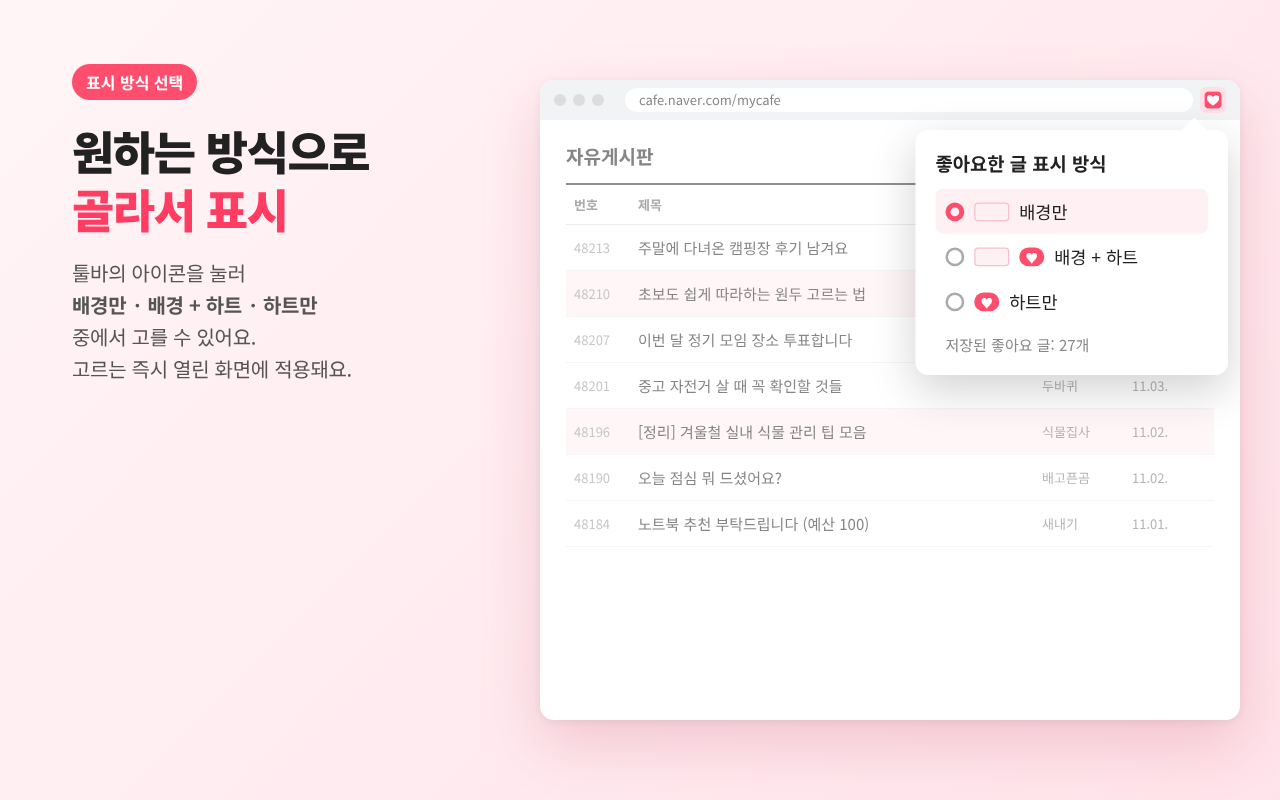
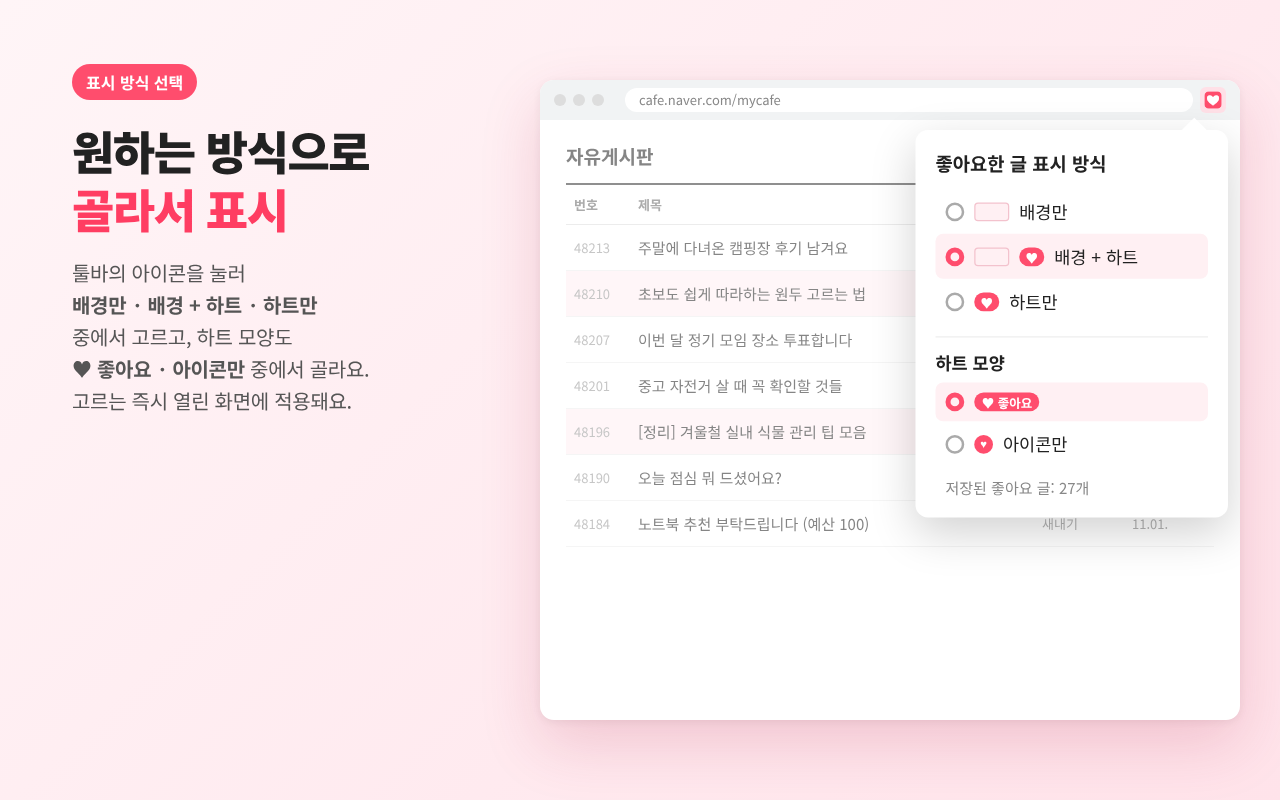
v1.5.0: 하트 모양 선택 기능 추가
- 팝업에서 하트 모양을 "♥ 좋아요" 배지 / 아이콘(♥)만 중에서 고를 수 있음
- 고르는 즉시 열린 카페 화면에 반영되고, 긴 제목 여백도 모양에 맞게 다시 계산
- 표시 방식이 "배경만"이면 하트 모양 선택을 흐리게 표시
- README와 스토어 스크린샷(팝업 화면) 갱신

Claude-Session: https://claude.ai/code/session_018ih16usEF2kqeph62Xi418

diff --git a/extension/content.js b/extension/content.js
@@ -8,10 +8,12 @@
   const STORAGE_KEY = "likedArticles"; // { key: { c: 카페번호, n: 카페이름, a: 글번호, t: 저장시각 } }
   const MAP_KEY = "cafeMap";           // { 카페번호: 카페이름 }  (서로 모를 때 채워 넣기용)
   const MODE_KEY = "displayMode";      // "bg" | "bg_heart" | "heart"
+  const STYLE_KEY = "heartStyle";      // "text"(♥ 좋아요) | "icon"(♥)
 
   let liked = {};
   let cafeMap = {};
   let mode = "bg";
+  let heartStyle = "text";
   let index = new Map(); // 글번호 → [기록...]  (빠른 조회용)
 
   // 카페 이름으로 오인하면 안 되는 주소 첫 부분
@@ -171,9 +173,10 @@
 
   function load() {
     return new Promise((done) => {
-      chrome.storage.local.get([STORAGE_KEY, MAP_KEY, MODE_KEY], (r) => {
+      chrome.storage.local.get([STORAGE_KEY, MAP_KEY, MODE_KEY, STYLE_KEY], (r) => {
         cafeMap = r[MAP_KEY] || {};
         mode = r[MODE_KEY] || "bg";
+        heartStyle = r[STYLE_KEY] || "text";
         const { out, changed } = migrate(r[STORAGE_KEY]);
         liked = out;
         if (changed) chrome.storage.local.set({ [STORAGE_KEY]: liked });
@@ -215,6 +218,11 @@
       ctxCache = null;
     }
     if (changes[MODE_KEY]) mode = changes[MODE_KEY].newValue || "bg";
+    if (changes[STYLE_KEY]) {
+      heartStyle = changes[STYLE_KEY].newValue || "text";
+      // 모양이 바뀌면 크기도 달라지므로 하트를 지우고 다시 그림 (여백도 다시 계산됨)
+      document.querySelectorAll(".ncl-heart-dot").forEach((d) => d.remove());
+    }
     markList();
   });
 
@@ -324,8 +332,8 @@
       // 이미 위치 지정(relative/absolute 등)이 된 요소는 그대로 두고, 아니면 기준점으로 만듦
       if (getComputedStyle(anchor).position === "static") anchor.classList.add("ncl-pos");
       const dot = document.createElement("span");
-      dot.className = "ncl-heart-dot";
-      dot.textContent = "\u2665 좋아요";
+      dot.className = heartStyle === "icon" ? "ncl-heart-dot ncl-icon" : "ncl-heart-dot";
+      dot.textContent = heartStyle === "icon" ? "\u2665" : "\u2665 좋아요";
       dot.setAttribute("aria-hidden", "true");
       anchor.appendChild(dot);
       dotTitles.set(anchor, title);

diff --git a/tools/store.html b/tools/store.html
@@ -93,7 +93,7 @@ td{position:relative}
   <div class="head">
     <div class="tag">표시 방식 선택</div>
     <h1>원하는 방식으로<br><em>골라서 표시</em></h1>
-    <p>툴바의 아이콘을 눌러<br><b>배경만 · 배경 + 하트 · 하트만</b><br>중에서 고를 수 있어요.<br>고르는 즉시 열린 화면에 적용돼요.</p>
+    <p>툴바의 아이콘을 눌러<br><b>배경만 · 배경 + 하트 · 하트만</b><br>중에서 고르고, 하트 모양도<br><b>♥ 좋아요 · 아이콘만</b> 중에서 골라요.<br>고르는 즉시 열린 화면에 적용돼요.</p>
   </div>
   <div class="win" style="left:540px;top:80px;width:700px;height:640px">
     <div class="bar"><i></i><i></i><i></i><div class="url">cafe.naver.com/mycafe</div><div class="ext" style="background:#ffe0e7"><img src="../extension/icons/icon32.png"></div></div>
@@ -110,9 +110,12 @@ td{position:relative}
     <div class="popup" style="right:12px;top:50px;transform:scale(1.25);transform-origin:top right">
       <div class="caret"></div>
       <h3>좋아요한 글 표시 방식</h3>
-      <label class="sel"><span class="radio"></span><span class="sw"></span> 배경만</label>
-      <label><span class="radio"></span><span class="sw"></span><span class="ht">♥</span> 배경 + 하트</label>
+      <label><span class="radio"></span><span class="sw"></span> 배경만</label>
+      <label class="sel"><span class="radio"></span><span class="sw"></span><span class="ht">♥</span> 배경 + 하트</label>
       <label><span class="radio"></span><span class="ht">♥</span> 하트만</label>
+      <div style="border-top:1px solid #eee;margin:10px 0 6px;padding-top:10px;font-weight:700;font-size:14px">하트 모양</div>
+      <label class="sel"><span class="radio"></span><span class="ht" style="padding:0 6px">♥ 좋아요</span></label>
+      <label><span class="radio"></span><span class="ht" style="width:15px;height:15px;padding:0;border-radius:50%;text-align:center;font:bold 9px/15px Arial">♥</span> 아이콘만</label>
       <div class="cnt">저장된 좋아요 글: 27개</div>
     </div>
   </div>

diff --git a/extension/popup.html b/extension/popup.html
@@ -5,18 +5,29 @@
 <style>
   body { width: 220px; margin: 0; padding: 14px; font: 13px "Malgun Gothic", sans-serif; color: #222; }
   h1 { font-size: 14px; margin: 0 0 10px; }
+  h2 { font-size: 13px; margin: 14px 0 6px; padding-top: 12px; border-top: 1px solid #eee; }
   label { display: flex; align-items: center; gap: 8px; padding: 7px 8px; border-radius: 6px; cursor: pointer; }
   label:hover { background: #f5f5f5; }
   .bg { display: inline-block; width: 26px; height: 14px; background: #fff0f3; border: 1px solid #f3c2cd; border-radius: 3px; }
   .heart { display: inline-block; padding: 0 5px; border-radius: 8px; background: #ff4d6d; color: #fff; font-size: 10px; line-height: 15px; font-weight: bold; }
+  .heart.text { padding: 0 6px; }
+  .heart.icon { width: 15px; height: 15px; padding: 0; border-radius: 50%; font: bold 9px/15px Arial, sans-serif; text-align: center; }
+  #style.off { opacity: .4; pointer-events: none; }
   .count { margin-top: 10px; color: #888; font-size: 12px; }
 </style>
 </head>
 <body>
   <h1>좋아요한 글 표시 방식</h1>
   <label><input type="radio" name="mode" value="bg"> <span class="bg"></span> 배경만</label>
-  <label><input type="radio" name="mode" value="bg_heart"> <span class="bg"></span><span class="heart">♥</span> 배경 + 하트</label>
-  <label><input type="radio" name="mode" value="heart"> <span class="heart">♥</span> 하트만</label>
+  <label><input type="radio" name="mode" value="bg_heart"> <span class="bg"></span><span class="heart icon">♥</span> 배경 + 하트</label>
+  <label><input type="radio" name="mode" value="heart"> <span class="heart icon">♥</span> 하트만</label>
+
+  <div id="style">
+    <h2>하트 모양</h2>
+    <label><input type="radio" name="heartStyle" value="text"> <span class="heart text">♥ 좋아요</span></label>
+    <label><input type="radio" name="heartStyle" value="icon"> <span class="heart icon">♥</span> 아이콘만</label>
+  </div>
+
   <div class="count" id="count"></div>
   <script src="popup.js"></script>
 </body>

diff --git a/extension/popup.js b/extension/popup.js
@@ -1,6 +1,14 @@
-chrome.storage.local.get(["displayMode", "likedArticles"], (r) => {
+// 표시 방식이 "배경만"이면 하트 모양 선택은 쓸 일이 없으므로 흐리게
+function updateStyleSection(mode) {
+  document.getElementById("style").classList.toggle("off", mode === "bg");
+}
+
+chrome.storage.local.get(["displayMode", "heartStyle", "likedArticles"], (r) => {
   const mode = r.displayMode || "bg";
-  document.querySelector(`input[value="${mode}"]`).checked = true;
+  const style = r.heartStyle || "text";
+  document.querySelector(`input[name="mode"][value="${mode}"]`).checked = true;
+  document.querySelector(`input[name="heartStyle"][value="${style}"]`).checked = true;
+  updateStyleSection(mode);
   const n = Object.keys(r.likedArticles || {}).length;
   document.getElementById("count").textContent = `저장된 좋아요 글: ${n}개`;
 });
@@ -8,5 +16,12 @@ chrome.storage.local.get(["displayMode", "likedArticles"], (r) => {
 document.querySelectorAll('input[name="mode"]').forEach((input) => {
   input.addEventListener("change", () => {
     chrome.storage.local.set({ displayMode: input.value });
+    updateStyleSection(input.value);
+  });
+});
+
+document.querySelectorAll('input[name="heartStyle"]').forEach((input) => {
+  input.addEventListener("change", () => {
+    chrome.storage.local.set({ heartStyle: input.value });
   });
 });

diff --git a/extension/style.css b/extension/style.css
@@ -40,6 +40,16 @@
   pointer-events: none;
 }
 
+/* 하트 모양: 아이콘(♥)만 */
+.ncl-heart-dot.ncl-icon {
+  width: 15px;
+  height: 15px;
+  margin: -7.5px 0 0 0 !important;
+  padding: 0;
+  border-radius: 50%;
+  font: bold 9px/15px Arial, sans-serif;
+}
+
 /* 배경이 칠해진 줄에서는 하트 테두리도 배경색으로 */
 .ncl-liked-row .ncl-heart-dot,
 .ncl-liked-row > td .ncl-heart-dot {

diff --git a/README.md b/README.md
@@ -10,6 +10,7 @@
 - 게시글에서 좋아요 버튼을 **누를 때** 저장하고, 취소하면 지웁니다. 글을 열기만 해서는 저장하지 않습니다.
 - 게시판 목록에서 저장된 글을 표시합니다.
 - 툴바 아이콘을 눌러 표시 방식을 **배경만 / 배경 + 하트 / 하트만** 중에서 고를 수 있습니다. 고르는 즉시 열린 화면에 적용됩니다.
+- 하트 모양도 **♥ 좋아요 / 아이콘만(♥)** 중에서 고를 수 있습니다. 하트는 줄 오른쪽 끝에 표시되며, 긴 제목은 하트 앞에서 줄바꿈되어 가려지지 않습니다.
 - 모든 기록은 내 브라우저에만 저장되며, 외부로 전송되지 않습니다. ([개인정보처리방침](docs/privacy.md))
 
 ## 설치
